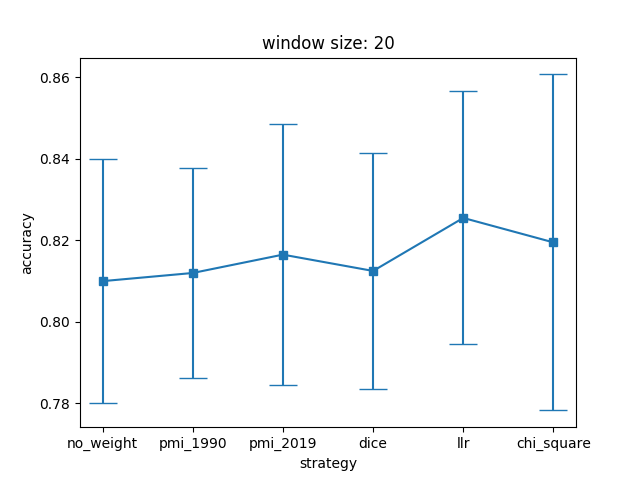
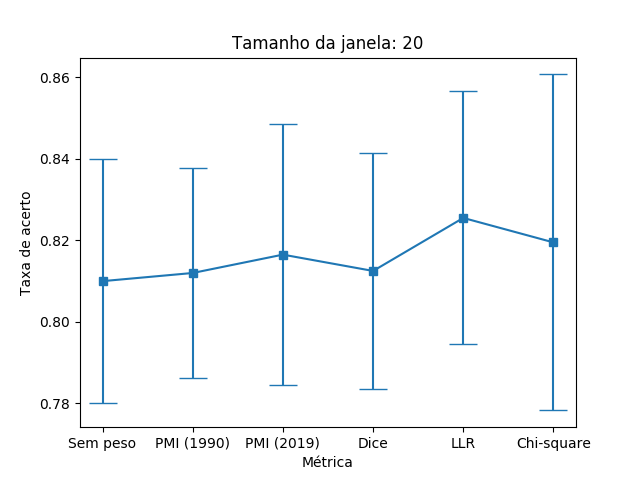
results in the proposal report

diff --git a/results_main.py b/results_main.py
@@ -45,8 +45,8 @@ def plot_graphic(windows, strat, means, stds, dataset, output_fig):
         print(windows, means[s], stds[s])
         plt.errorbar(windows, means[s], yerr=stds[s], fmt='o', marker='s', capsize=10)
     plt.legend(strat, loc="upper left", numpoints=1)
-    plt.xlabel("window size")
-    plt.ylabel("accuracy")
+    plt.xlabel("Tamanho da janela")
+    plt.ylabel("Taxa de acerto")
     plt.xlim(windows[0]-2, windows[-1]+2)
     plt.savefig(output_fig + ".png")
     plt.close()
@@ -70,13 +70,14 @@ def mean_and_std_w(res, strat, windows, dataset, output, output_fig):
     plot_graphic_w(windows, strat, means, stds, dataset, output_fig)
 
 def plot_graphic_w(windows, strat, means, stds, dataset, output_fig):
+    bar =  ["Sem peso", "PMI (1990)", "PMI (2019)", "Dice", "LLR", "Chi-square"]
     for w in range(0, len(windows)):
-        title = "window size: " + str(windows[w])
+        title = "Tamanho da janela: " + str(windows[w])
         print("---")
         print(windows[w], means[w], stds[w])
-        plt.errorbar(strat, means[w], yerr=stds[w], marker='s', capsize=10)
-        plt.xlabel("strategy")
-        plt.ylabel("accuracy")
+        plt.errorbar(bar, means[w], yerr=stds[w], marker='s', capsize=10)
+        plt.xlabel("Métrica")
+        plt.ylabel("Taxa de acerto")
         plt.title(title)
         plt.savefig(output_fig + str(windows[w]) + ".png")
         plt.close()
